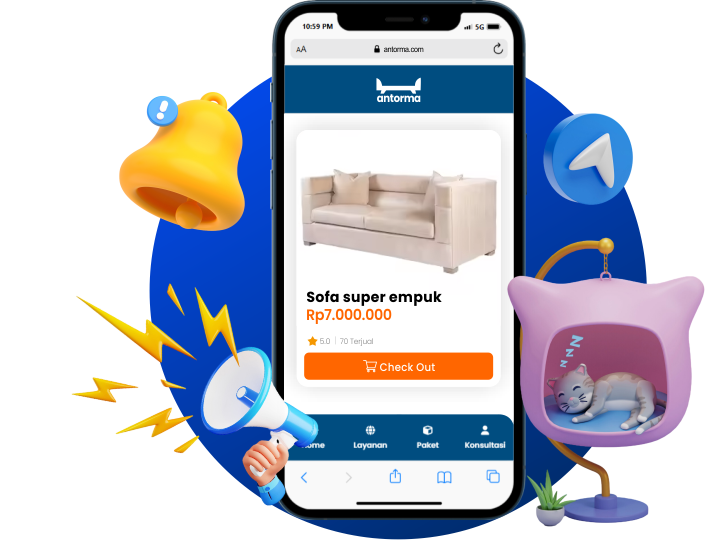
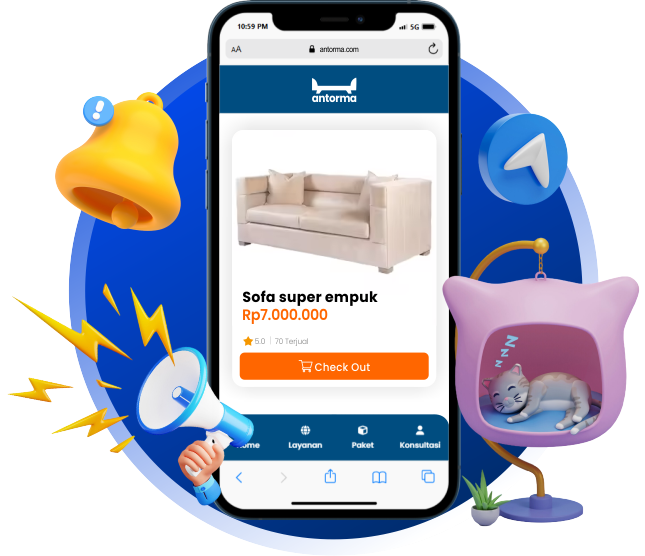
update

diff --git a/src/components/Footer.jsx b/src/components/Footer.jsx
@@ -1,4 +1,5 @@
 import React from 'react'
+import payment from "../assets/payment.png"
 
 const Footer = () => {
   return (
@@ -19,18 +20,7 @@ const Footer = () => {
             </div>
         </div>
         <div className='flex gap-8'>
-            <img className='w-8' src="/images/Facebook.png" alt="facebook" />
-            <img className='w-8' src="/images/Facebook.png" alt="facebook" />
-            <img className='w-8' src="/images/Facebook.png" alt="facebook" />
-            <img className='w-8' src="/images/Facebook.png" alt="facebook" />
-            <img className='w-8' src="/images/Facebook.png" alt="facebook" />
-            <img className='w-8' src="/images/Facebook.png" alt="facebook" />
-            <img className='w-8' src="/images/Facebook.png" alt="facebook" />
-            <img className='w-8' src="/images/Facebook.png" alt="facebook" />
-            <img className='w-8' src="/images/Facebook.png" alt="facebook" />
-            <img className='w-8' src="/images/Facebook.png" alt="facebook" />
-            <img className='w-8' src="/images/Facebook.png" alt="facebook" />
-            <img className='w-8' src="/images/Facebook.png" alt="facebook" />
+            <img className='w-' src={payment} alt="payment" />
         </div>
     </div>
     )

diff --git a/src/components/Home.jsx b/src/components/Home.jsx
@@ -10,7 +10,7 @@ const Home = () => {
           <div>Rumah Anda</div>
           <div>dengan <span className='text-blue-700'>ANTORMA</span></div>
         </div>
-        <div className="text-black text-5xs font-nexa-light">
+        <div className="text-black text-5xs font-outfit">
           <div>
             Antorma menyediakan kelengkapan interior berkualitas, seperti</div>
           <div>
@@ -35,8 +35,8 @@ const Home = () => {
       </div>
       {/* Bagian Kanan */}
       <div className="w-1/2 pl-10">
-        <div className="pt-7">
-          <img src="images/object_jumbtorton.png" alt="jumbotron" className='w-11/12'/>
+        <div className="pt-7 flex justify-center">
+          <img src="images/object_jumbtorton.png" alt="jumbotron" className='w-10/12'/>
         </div>
       </div>
     </div>

diff --git a/src/components/Navbar.jsx b/src/components/Navbar.jsx
@@ -6,12 +6,12 @@ const Navbar = () => {
   const [isOpen, setIsOpen] = useState(false);
 
   return (
-    <nav className="bg-white">
+    <nav className="bg-white px-20">
       <div className="container mx-auto px-1 sm:px-6 lg:px-8">
         <div className="flex justify-between items-center h-20">
           <div className="flex items-center">
             <a href="#" className="text-gray-800 text-xl font-bold">
-              <img className="w-1/3" src={logoNav} alt="" />
+              <img className="w-1/2" src={logoNav} alt="" />
             </a>
           </div>
           <div className="hidden md:flex space-x-7">

diff --git a/src/components/ProdukKami.jsx b/src/components/ProdukKami.jsx
@@ -1,11 +1,14 @@
-import React from 'react'
+import React from "react";
 
 const ProdukKami = () => {
   return (
     <div className='bg-[url("./assets/bg_1.png")] w-[100%] h-[100vh] bg-cover bg-center relative'>
-      
+      <h1 className="text-white text-5xl font-bold">Produk kami</h1>
+      <h3 className="text-white text-2xl font-medium">
+        Produk yang kami berikan sesuai dengan yang anda bayangkan dan bayarkan
+      </h3>
     </div>
-  )
-}
+  );
+};
 
-export default ProdukKami
+export default ProdukKami;

diff --git a/public/index.html b/public/index.html
@@ -5,6 +5,10 @@
     <link rel="icon" href="%PUBLIC_URL%/favicon.ico" />
     <meta name="viewport" content="width=device-width, initial-scale=1" />
     <meta name="theme-color" content="#000000" />
+    <link
+      href="https://fonts.googleapis.com/css2?family=Roboto:wght@400;700&display=swap"
+      rel="stylesheet"
+    />
     <meta
       name="description"
       content="Web site created using create-react-app"

diff --git a/src/index.css b/src/index.css
@@ -2,7 +2,7 @@
 @tailwind components;
 @tailwind utilities;
 
-@font-face{
+/* @font-face{
     font-family: 'Nexa';
     src: url(
         './../public/fonts/nexa/Nexa-Heavy.ttf'
@@ -14,4 +14,4 @@
     src: url(
         './../public/fonts/nexa/Nexa-ExtraLight.ttf'
     );
-}
+} */

diff --git a/tailwind.config.js b/tailwind.config.js
@@ -6,8 +6,7 @@ module.exports = {
   theme: {
     extend: {
       fontFamily: {
-        'nexa': ['Nexa'],
-        'nexa-light': ['Nexa-Light'],
+        'outfit': ['Outfit', 'sans-serif'],
       },
       backgroundImage: {
         'produk-bg' : "url(./src/assets/bg_1.png)"

diff --git a/src/App.css b/src/App.css
@@ -1,3 +1,5 @@
+@import url('https://fonts.googleapis.com/css2?family=Outfit:wght@100..900&display=swap');
+
 .App {
   text-align: center;
 }
